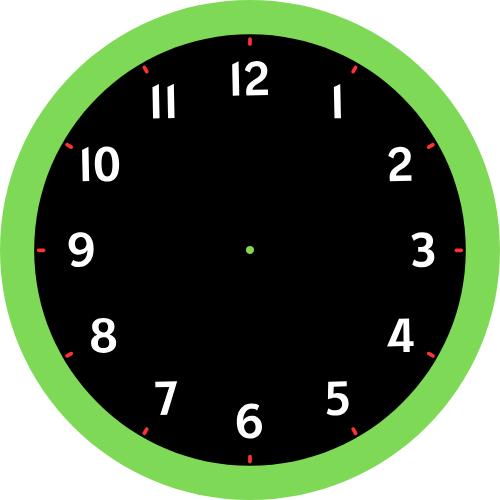
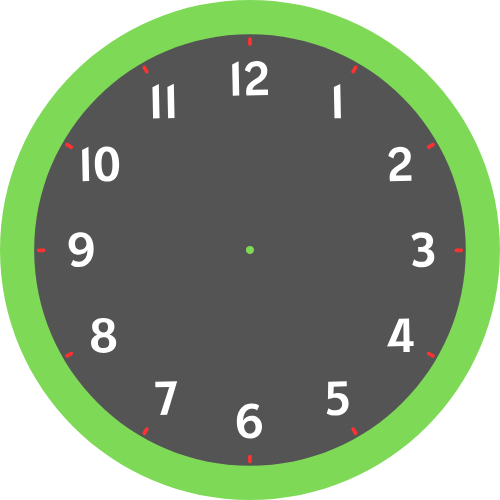
bg based on theme and some minor UI fixes

diff --git a/src/components/TimeBasedClock.jsx b/src/components/TimeBasedClock.jsx
@@ -8,12 +8,12 @@ export default function TimeBasedClock() {
   const [time, setTime] = useState(new Date());
   const [isExpanded, setIsExpanded] = useState(false);
   const [isAutoTime, setIsAutoTime] = useState(true);
-  const [manualTime, setManualTime] = useState(""); // Always reflects current time
+  const [manualTime, setManualTime] = useState("");
   const clockRef = useRef(null);
   const isDragging = useRef(false);
   const intervalRef = useRef(null);
 
-  // Auto-update time every second
+  // Auto-update time
   const startClock = () => {
     clearInterval(intervalRef.current);
     intervalRef.current = setInterval(() => {
@@ -90,19 +90,7 @@ export default function TimeBasedClock() {
   };
 
   return (
-    <div className="flex flex-col items-center justify-center min-h-screen p-4">
-      <button
-        onClick={() => {
-          setIsAutoTime((prev) => !prev);
-          if (!isAutoTime) {
-            setTime(new Date());
-          }
-        }}
-        className="mb-4 px-4 py-2 bg-blue-500 text-white rounded-lg shadow-lg hover:bg-blue-600"
-      >
-        {isAutoTime ? "Switch to Manual Time" : "Switch to Auto Time"}
-      </button>
-
+    <div className="flex flex-col items-center justify-center min-h-screen p-4 z-[100]">
       {!isExpanded ? (
         <div
           className="relative w-20 h-20 dark:bg-gray-700 rounded-full flex items-center justify-center cursor-pointer shadow-lg"
@@ -121,54 +109,73 @@ export default function TimeBasedClock() {
           </h2>
         </div>
       ) : (
-        <div
-          ref={clockRef}
-          className="relative w-90 h-90 rounded-full bg-gradient-to-br from-blue-200 to-sky-500 dark:from-gray-800 dark:to-black shadow-2xl"
-          style={{
-            backgroundImage: "url(/assets/clock/clock.png)",
-            backgroundSize: "cover",
-            backgroundPosition: "center",
-          }}
-        >
-          <div className="absolute w-full h-full flex items-center justify-center">
-            <div
-              className="absolute w-1 h-20 bg-gray-900 dark:bg-gray-100 origin-bottom"
-              style={{
-                transform: `translateY(-50%) rotate(${
-                  (time.getHours() % 12) * 30 + time.getMinutes() * 0.5
-                }deg)`,
-              }}
-            />
-            <div
-              className="absolute w-1 h-28 bg-yellow-400 origin-bottom cursor-pointer"
-              style={{
-                transform: `translateY(-50%) rotate(${getRotation(
-                  time.getMinutes(),
-                  60
-                )}deg)`,
-              }}
-              onMouseDown={!isAutoTime ? handleMouseDown : undefined}
-            />
-          </div>
-
-          <button
-            onClick={() => setIsExpanded(false)}
-            className="absolute top-2 right-2 bg-red-500 text-white px-2 py-1 rounded-full"
+        <>
+          <div
+            ref={clockRef}
+            className="relative w-90 h-90 rounded-full bg-gradient-to-br from-green-200 to-sky-500 dark:from-gray-800 dark:to-black shadow-2xl"
+            style={{
+              backgroundImage:
+                theme === "dark"
+                  ? "url(/assets/clock/clock-dark.png)"
+                  : "url(/assets/clock/clock.png)",
+              backgroundSize: "cover",
+              backgroundPosition: "center",
+            }}
           >
-            ✖
-          </button>
-
-          {!isAutoTime && (
-            <div className="absolute bottom-12 left-1/2 transform -translate-x-1/2">
-              <input
-                type="time"
-                value={manualTime}
-                onChange={handleManualTimeChange}
-                className="px-3 py-1 text-lg border border-gray-300 rounded-lg shadow-md focus:outline-none dark:bg-gray-800 dark:text-white"
+            <div className="absolute w-full h-full flex items-center justify-center">
+              <div
+                className="absolute w-1 h-20 bg-gray-900 dark:bg-gray-100 origin-bottom"
+                style={{
+                  transform: `translateY(-50%) rotate(${
+                    (time.getHours() % 12) * 30 + time.getMinutes() * 0.5
+                  }deg)`,
+                }}
+              />
+              <div
+                className="absolute w-1 h-28 bg-yellow-400 origin-bottom cursor-pointer"
+                style={{
+                  transform: `translateY(-50%) rotate(${getRotation(
+                    time.getMinutes(),
+                    60
+                  )}deg)`,
+                }}
+                onMouseDown={!isAutoTime ? handleMouseDown : undefined}
               />
             </div>
-          )}
-        </div>
+            <button
+              onClick={() => setIsExpanded(false)}
+              className="absolute top-2 right-2 px-2 py-1 bg-red-500 text-white rounded-full shadow-lg hover:bg-red-600"
+            >
+              ✖
+            </button>
+
+            {!isAutoTime && (
+              <div className="absolute bottom-28 left-1/2 transform -translate-x-1/2">
+                <input
+                  type="time"
+                  value={manualTime}
+                  onChange={handleManualTimeChange}
+                  className="px-3 py-1 text-lg border border-gray-300 rounded-lg shadow-md focus:outline-none dark:bg-gray-800 dark:text-white"
+                />
+              </div>
+            )}
+          </div>
+
+          {/* Buttons outside the clock frame */}
+          <div className="flex justify-center mt-6 gap-4">
+            <button
+              onClick={() => {
+                setIsAutoTime((prev) => !prev);
+                if (!isAutoTime) {
+                  setTime(new Date());
+                }
+              }}
+              className="px-4 py-2 bg-green-500 text-white rounded-lg shadow-lg hover:bg-green-600"
+            >
+              {isAutoTime ? "Switch to Manual Time" : "Switch to Auto Time"}
+            </button>
+          </div>
+        </>
       )}
     </div>
   );
